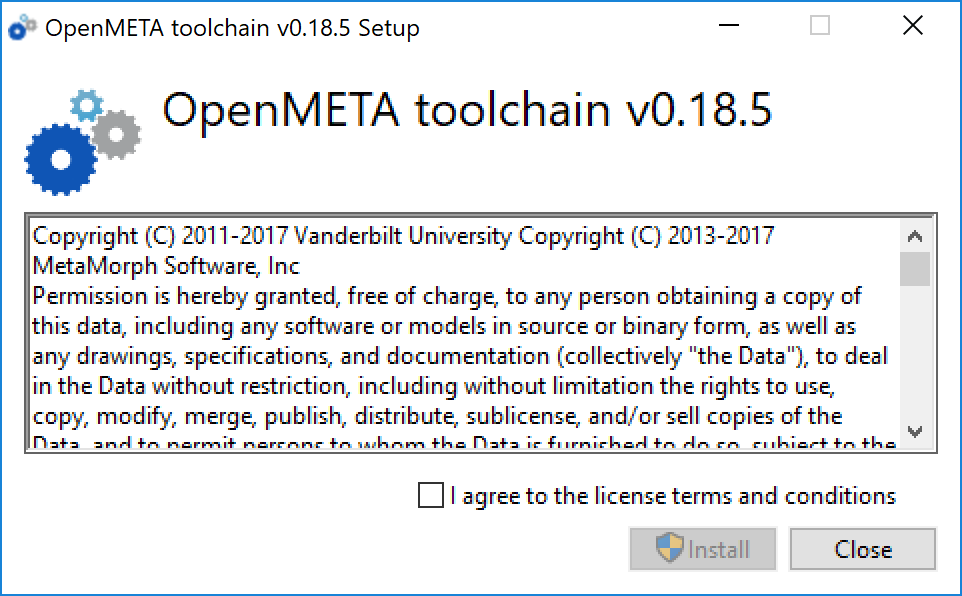
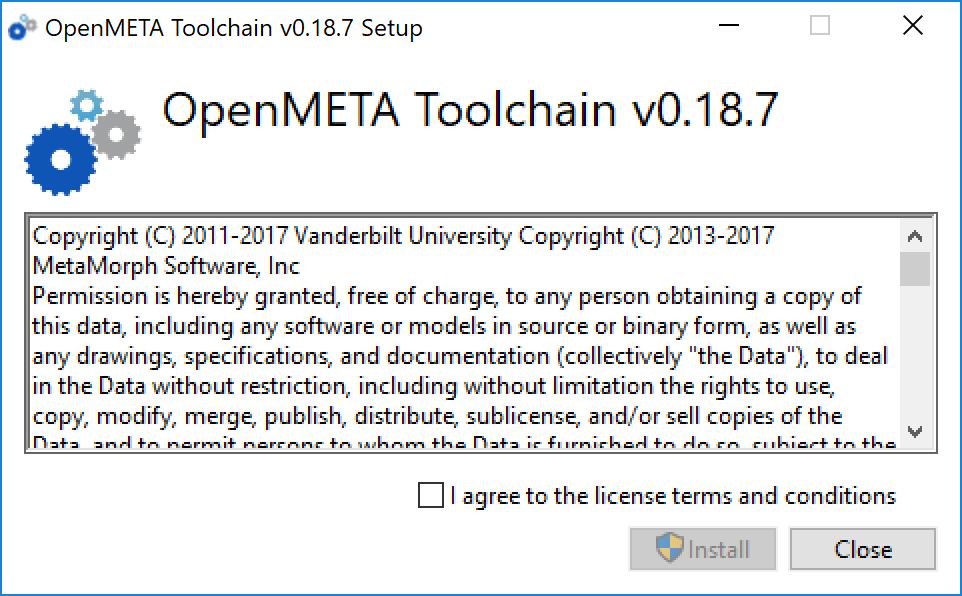
Update pictures for offline installer.

Changed region(s): [[0.4054, 0.151, 0.8108, 0.2114], [0.1559, 0.0302, 0.4366, 0.0604]]

diff --git a/docs/source/getting_started/installation/installation.rst b/docs/source/getting_started/installation/installation.rst
@@ -32,7 +32,7 @@ Follow the steps below to install OpenMETA:
    <https://openmeta.metamorphsoftware.com/releases>`_ on the OpenMETA website.
 
    .. image:: images/downloadPage.png
-      :width: 970 px
+      :width: 625 px
 
    .. note:: The "Offline" version of the installer includes all the necessary
       dependencies and should therefore be used only when you need to install
